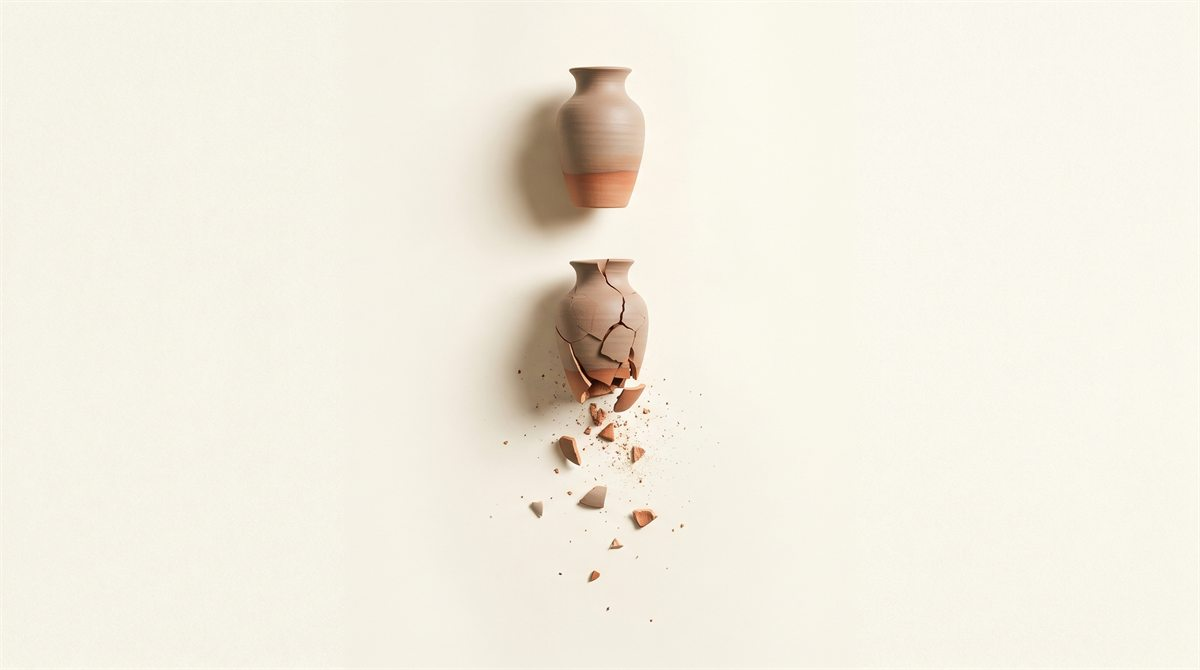
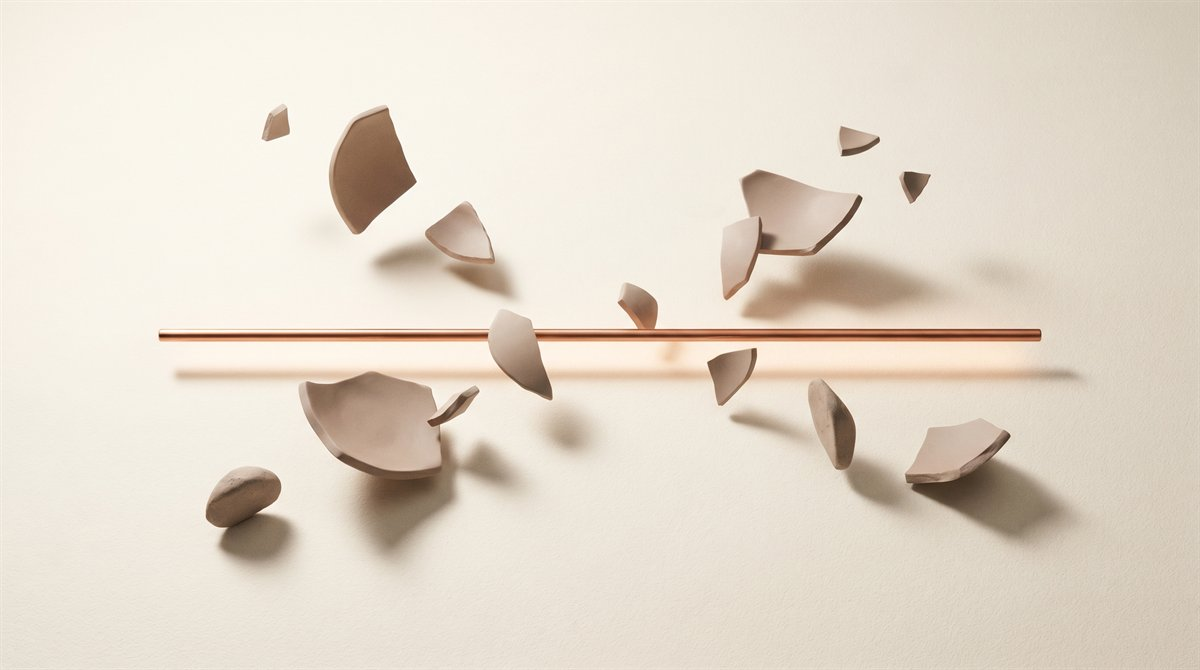
design(article): swap hero/OG to the copper-line image (version B)
The straight copper line is truer to the brand's minimal language and to the
article's own wording ("holds one line"). Replace the ceramic-vessel image with
line version B (1200x670 JPG, ~62KB) and update alt text in hero + insights card.

diff --git a/brand-true-to-itself.html b/brand-true-to-itself.html
@@ -555,7 +555,7 @@
 
   <!-- Hero Image -->
   <div class="hero-img">
-    <img src="/insight-brand-true-to-itself.jpg" alt="כלי חרס שלם בגוון טאופ-טרהקוטה למעלה, ומתחתיו אותו כלי מתפורר לרסיסים ושברים על משטח cream. מטאפורה למותג נאמן לעצמו שמחזיק צורה אחת — מול מותג שמתפזר ומאבד צורה." loading="eager">
+    <img src="/insight-brand-true-to-itself.jpg" alt="קו נחושת אחד, ישר ומדויק, חוצה משטח cream רגוע — ולצידו שברים ורסיסים בגוון טאופ שמפוזרים סביב אך אינם נוגעים בו. מטאפורה למותג נאמן לעצמו שמחזיק קו אחד גם כשיש רעש מסביב." loading="eager">
   </div>
 
   <!-- Article Body -->

diff --git a/insights.html b/insights.html
@@ -570,7 +570,7 @@
             <!-- Article: Brand True to Itself (June 2026) -->
             <a href="brand-true-to-itself.html" class="article-card">
                 <div class="article-card__visual">
-                    <img src="insight-brand-true-to-itself.jpg" alt="כלי חרס שלם בגוון טאופ-טרהקוטה למעלה, ומתחתיו אותו כלי מתפורר לרסיסים על משטח cream — מטאפורה למותג נאמן לעצמו שמחזיק צורה אחת מול מותג שמתפזר ומאבד צורה" loading="lazy">
+                    <img src="insight-brand-true-to-itself.jpg" alt="קו נחושת אחד ישר ומדויק על משטח cream, ולצידו שברים בגוון טאופ שמפוזרים סביב אך אינם נוגעים בו — מטאפורה למותג נאמן לעצמו שמחזיק קו אחד מול הרעש" loading="lazy">
                 </div>
                 <p class="article-card__category">Brand Strategy · BrandOS</p>
                 <h3 class="article-card__title">מותג נאמן לעצמו: למה היכולת להגיד "לא" בונה את המותג החזק ביותר</h3>